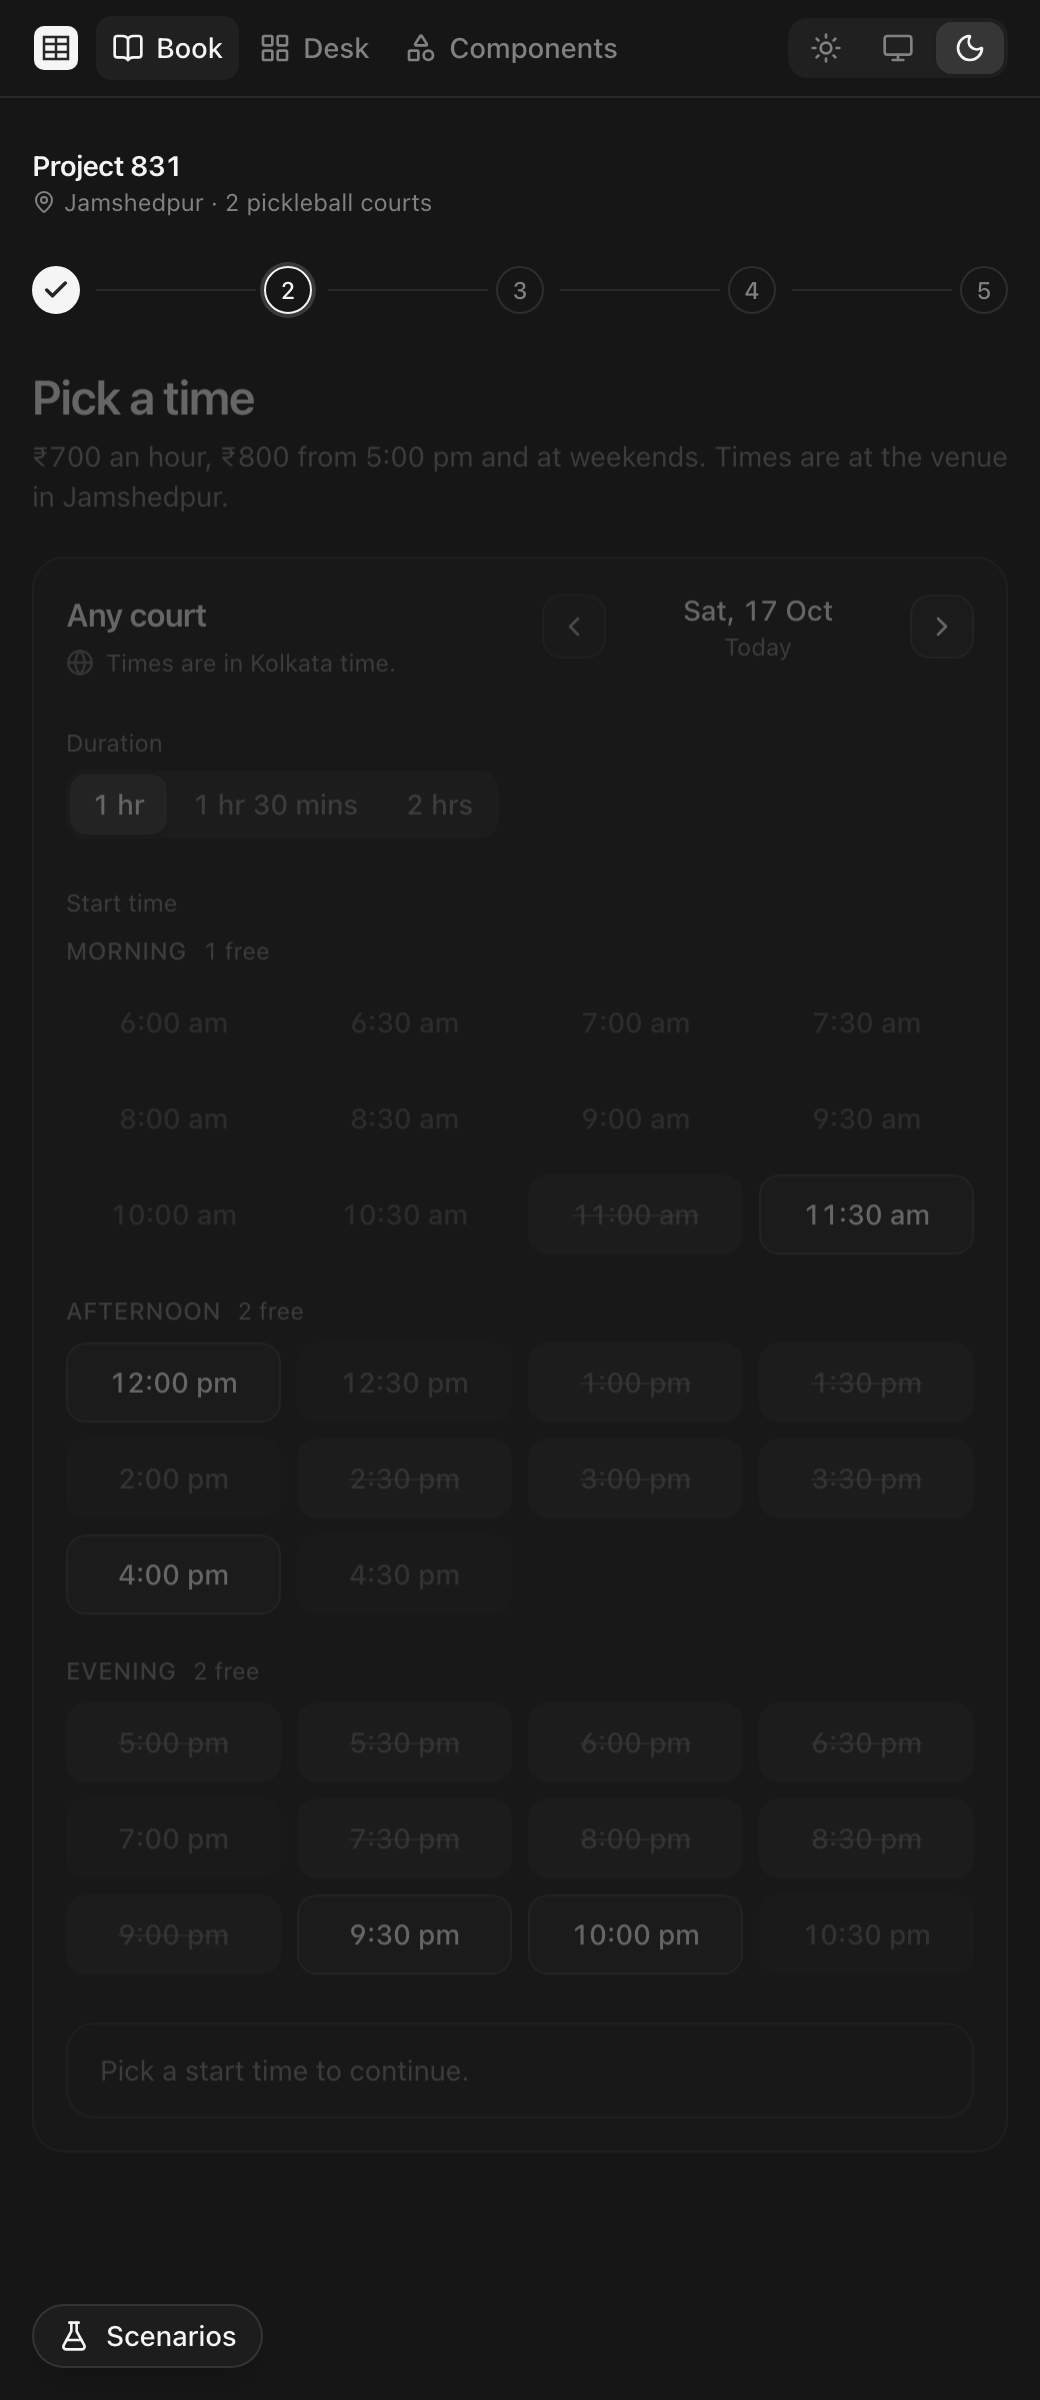
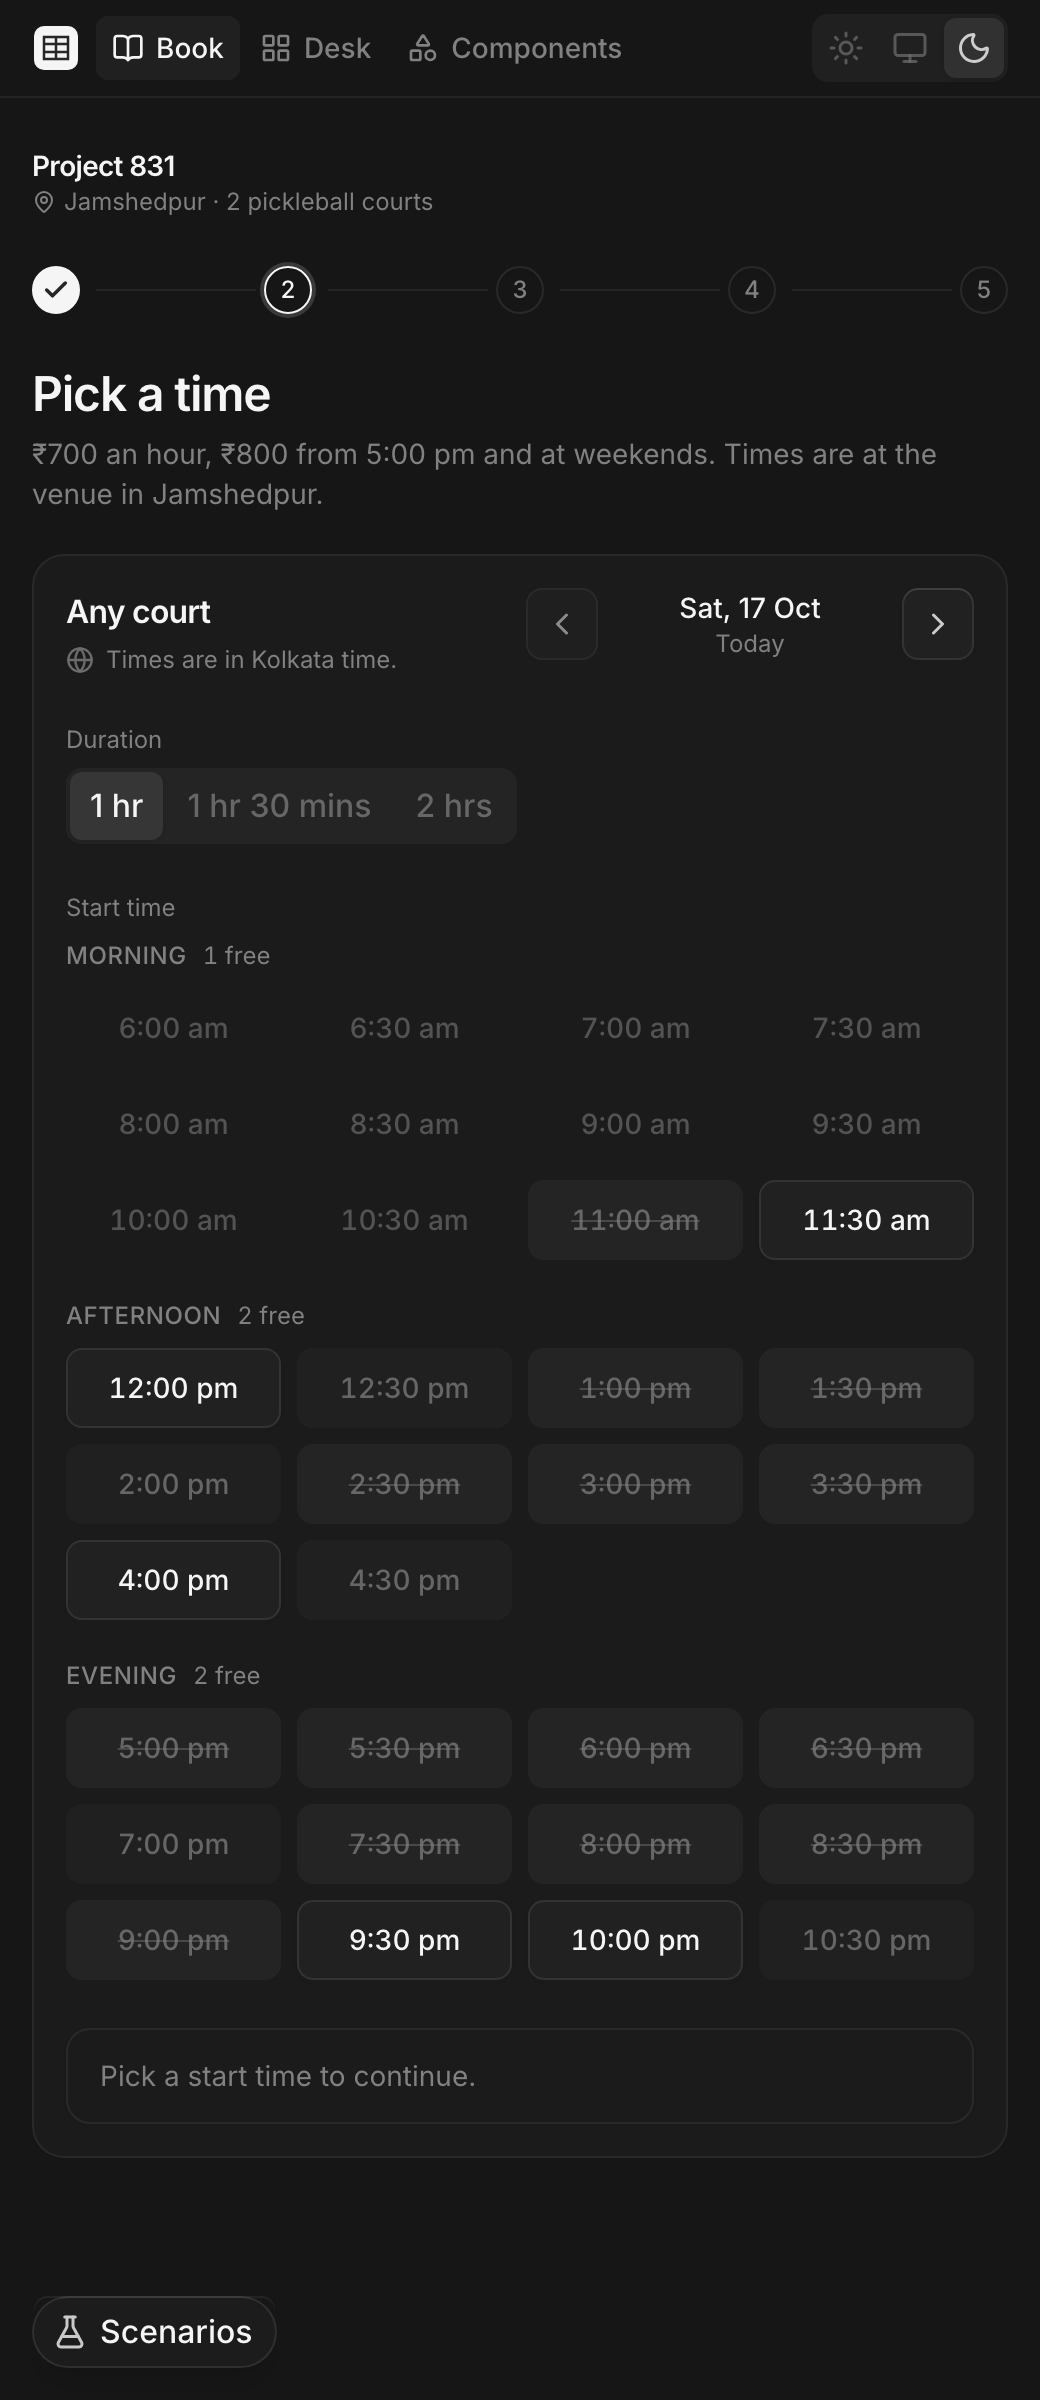
Docs: say plainly that the primitives are coss ui, add its MIT notice
README states the install command, that the coss files are unmodified and
how to check, which 41 of the 55 coss components the product uses, the two
project settings that bend around vendored code, and the app's own
compositions. THIRD_PARTY_NOTICES carries coss's MIT licence. Screenshots
regenerated on coss's tokens.

diff --git a/README.md b/README.md
@@ -1,6 +1,8 @@
 # Court Booking
 
-A court-booking product for a two-court pickleball venue, built end to end on [Base UI](https://base-ui.com) in the [coss ui](https://coss.com/ui) house style.
+A court-booking product for a two-court pickleball venue, built end to end with [coss ui](https://coss.com/ui).
+
+**UI primitives are coss ui ([cosscom/ui](https://github.com/cosscom/ui), MIT), installed with the shadcn CLI and unmodified; product components are composed from them.**
 
 **[Live demo →](https://rkj-builds.github.io/slot-picker/)** · the case study it comes from: [Project 831](https://rkj-builds.github.io/project-831-case-study/)
 
@@ -22,7 +24,7 @@ At [Project 831](https://project831.in) in Jamshedpur, self-serve bookings with 
 - **Book** (`#/book`, phone first). Five steps with their own URLs: court, time, details, hold and pay, done. The payment step offers what the policy decides (pay at the venue or now on a weekday; 50% or full at the weekend; full for a pay-first customer), holds the court with a visible countdown, and handles a declined payment, an expired hold and a slot taken mid-payment. Done has the paid and due split, an `.ics`, a WhatsApp share and cancellation with credit or refund. A **Scenarios** popover forces each of those states in seconds.
 - **Desk** (`#/desk`, desktop and tablet first; phones get a list). The day as courts by half hours, every booking's ledger in a side sheet; record cash, mark no-show, cancel, flag pay-first, copy a payment link, each with a toast and an Undo. Plus a searchable bookings table with CSV export, and **Insights** charts drawn from the same store.
 - **Settings** (`#/desk/settings`). Deposit, prepay days, hold length, pay-first list, hours and prices. Save a 30% deposit and the next customer on `#/book` is asked for 30%.
-- **Components** (`#/components`). All 40 primitives in their states, light and dark side by side.
+- **Components** (`#/components`). The 41 coss ui components this product uses, in their states and as the product uses them, light and dark side by side, with the app's own compositions labelled.
 
 ## What I obsessed over
 
@@ -34,13 +36,31 @@ At [Project 831](https://project831.in) in Jamshedpur, self-serve bookings with 
 - **Durations are never decimal and times keep their zone.** "1 hour 30 minutes", Asia/Kolkata everywhere, `Intl` only, no date library.
 - **Nothing is faked to look finished.** 300–600 ms of latency in the store makes every skeleton real; `?offline=1` shows the error states.
 
-## Component inventory (40)
+## Components
 
-Base UI underneath: accordion, alert-dialog, avatar, checkbox, collapsible, combobox, dialog, field, input, menu, meter, number-field, popover, progress, radio-group (with radio cards), scroll-area, segmented-control, select, separator, sheet (a dialog from the edge), slider, switch, tabs, textarea, toast, toggle, toggle-group, tooltip.
-Plain HTML: alert, badge, breadcrumb, button, card, empty, kbd, label, skeleton, spinner, stepper, table.
-Booking parts: `BookingSlotPicker`, `SlotGrid`, `DayStepper`, `DurationPicker`, `TimeZoneHint`, still exported from `src/index.ts`.
+### coss ui, as installed
 
-Each primitive is one lower-case file in `src/components/ui`: a named function with a `data-slot` on every part, its Base UI part imported from its own path, `cn()` and `cva` over the shared tokens in `src/styles/theme.css`. It follows coss ui's conventions and component names only; no coss code is copied.
+`src/components/ui`, `src/hooks` and the coss files in `src/lib` (`segmented-control.ts`, `composer-*.ts`, `utils.ts`) were written by
+
+```sh
+npx shadcn@latest add @coss/ui @coss/colors-neutral   # registry: https://coss.com/ui/r/{name}.json (components.json)
+```
+
+and are not edited here. To check: reinstall into an empty copy of the project and diff, or `npx shadcn@latest add @coss/ui --diff`. Theme tokens in `src/styles/theme.css` are coss's neutral palette as the CLI wrote them, plus the font contract and base layer from `@coss/style`; the app's own additions there are marked. Fonts are Inter and Geist Mono from `@fontsource-variable`, the Vite equivalent of `@coss/fonts`. Dark mode is coss's `.dark` class on `<html>` (set from the OS when the theme is "system").
+
+All 55 coss primitives are installed. The product uses 41: accordion, alert, alert-dialog, avatar, badge, breadcrumb, button, card, checkbox, collapsible, combobox, dialog, empty, field, frame, input, input-group, kbd, label, menu, meter, number-field, pagination, popover, progress, radio-group, scroll-area, select, separator, sheet, skeleton, slider, spinner, switch, table, tabs, textarea, toast, toggle, toggle-group, tooltip.
+
+Only two project settings bend around the vendored code, and neither touches a coss file: ESLint skips the coss files (they are linted upstream under different rules), and `tsconfig.json` sets `noUnusedLocals: false` because `src/lib/composer-editor.ts` has one unused type import upstream. typescript-eslint's `no-unused-vars` still checks all app code.
+
+### The app's compositions
+
+What coss does not ship is built from coss parts, outside `src/components/ui`:
+
+- `src/components/compositions/segmented-control.tsx`: coss Radio Group primitives with coss's `@coss/segmented-control` recipe, the way coss's segmented-control guide says to build a one-of-many choice.
+- `src/components/compositions/radio-card.tsx`: coss's card-radio pattern, a `Label` wrapping a `Radio`.
+- `src/components/compositions/stepper.tsx`: the booking flow's numbered steps.
+- `src/components/booking/`: `BookingSlotPicker`, `SlotGrid`, `DayStepper`, `DurationPicker`, `TimeZoneHint`, still exported from `src/index.ts`. The slot grid keeps its own roving-focus radio group (Page Up/Down between periods, geometry-aware Up/Down, focusable-but-disabled slots that say why), which Base UI's Radio Group has no hook for.
+- The desk grid, booking blocks, page headers and charts in `src/app`.
 
 ## Run it
 
@@ -58,6 +78,6 @@ URL switches: `?theme=light|dark`, `?now=2026-10-17T05:30:00Z` to pin the clock,
 
 ## Stack
 
-React 19, TypeScript, Vite, Tailwind v4, `@base-ui/react`, Vitest. No router, state, chart or date library: a hash router, a reducer in context, inline SVG and `Intl`.
+React 19, TypeScript, Vite, Tailwind v4, coss ui on `@base-ui/react`, Vitest. No router, state, chart or date library: a hash router, a reducer in context, inline SVG and `Intl`.
 
-MIT © Rahul Jha
+MIT © Rahul Jha. coss ui is MIT © coss.com; see [THIRD_PARTY_NOTICES.md](THIRD_PARTY_NOTICES.md).

diff --git a/THIRD_PARTY_NOTICES.md b/THIRD_PARTY_NOTICES.md
@@ -1,0 +1,35 @@
+# Third-party notices
+
+## coss ui
+
+The files in `src/components/ui`, `src/hooks`, and `src/lib/segmented-control.ts`,
+`src/lib/composer-*.ts` and `src/lib/utils.ts` come from coss ui
+(https://github.com/cosscom/ui, `apps/ui`), installed with the shadcn CLI from
+https://coss.com/ui/r and not modified. The cosscom/ui repository is AGPL-3.0 by
+default; its `apps/ui/` directory is MIT, per its LICENSING.md. The coss
+neutral theme tokens in `src/styles/theme.css` come from the same source.
+
+```
+MIT License
+
+Copyright (c) 2025 coss.com
+Originally Copyright (c) 2025 Origin UI
+
+Permission is hereby granted, free of charge, to any person obtaining a copy
+of this software and associated documentation files (the "Software"), to deal
+in the Software without restriction, including without limitation the rights
+to use, copy, modify, merge, publish, distribute, sublicense, and/or sell
+copies of the Software, and to permit persons to whom the Software is
+furnished to do so, subject to the following conditions:
+
+The above copyright notice and this permission notice shall be included in all
+copies or substantial portions of the Software.
+
+THE SOFTWARE IS PROVIDED "AS IS", WITHOUT WARRANTY OF ANY KIND, EXPRESS OR
+IMPLIED, INCLUDING BUT NOT LIMITED TO THE WARRANTIES OF MERCHANTABILITY,
+FITNESS FOR A PARTICULAR PURPOSE AND NONINFRINGEMENT. IN NO EVENT SHALL THE
+AUTHORS OR COPYRIGHT HOLDERS BE LIABLE FOR ANY CLAIM, DAMAGES OR OTHER
+LIABILITY, WHETHER IN AN ACTION OF CONTRACT, TORT OR OTHERWISE, ARISING FROM,
+OUT OF OR IN CONNECTION WITH THE SOFTWARE OR THE USE OR OTHER DEALINGS IN THE
+SOFTWARE.
+```
